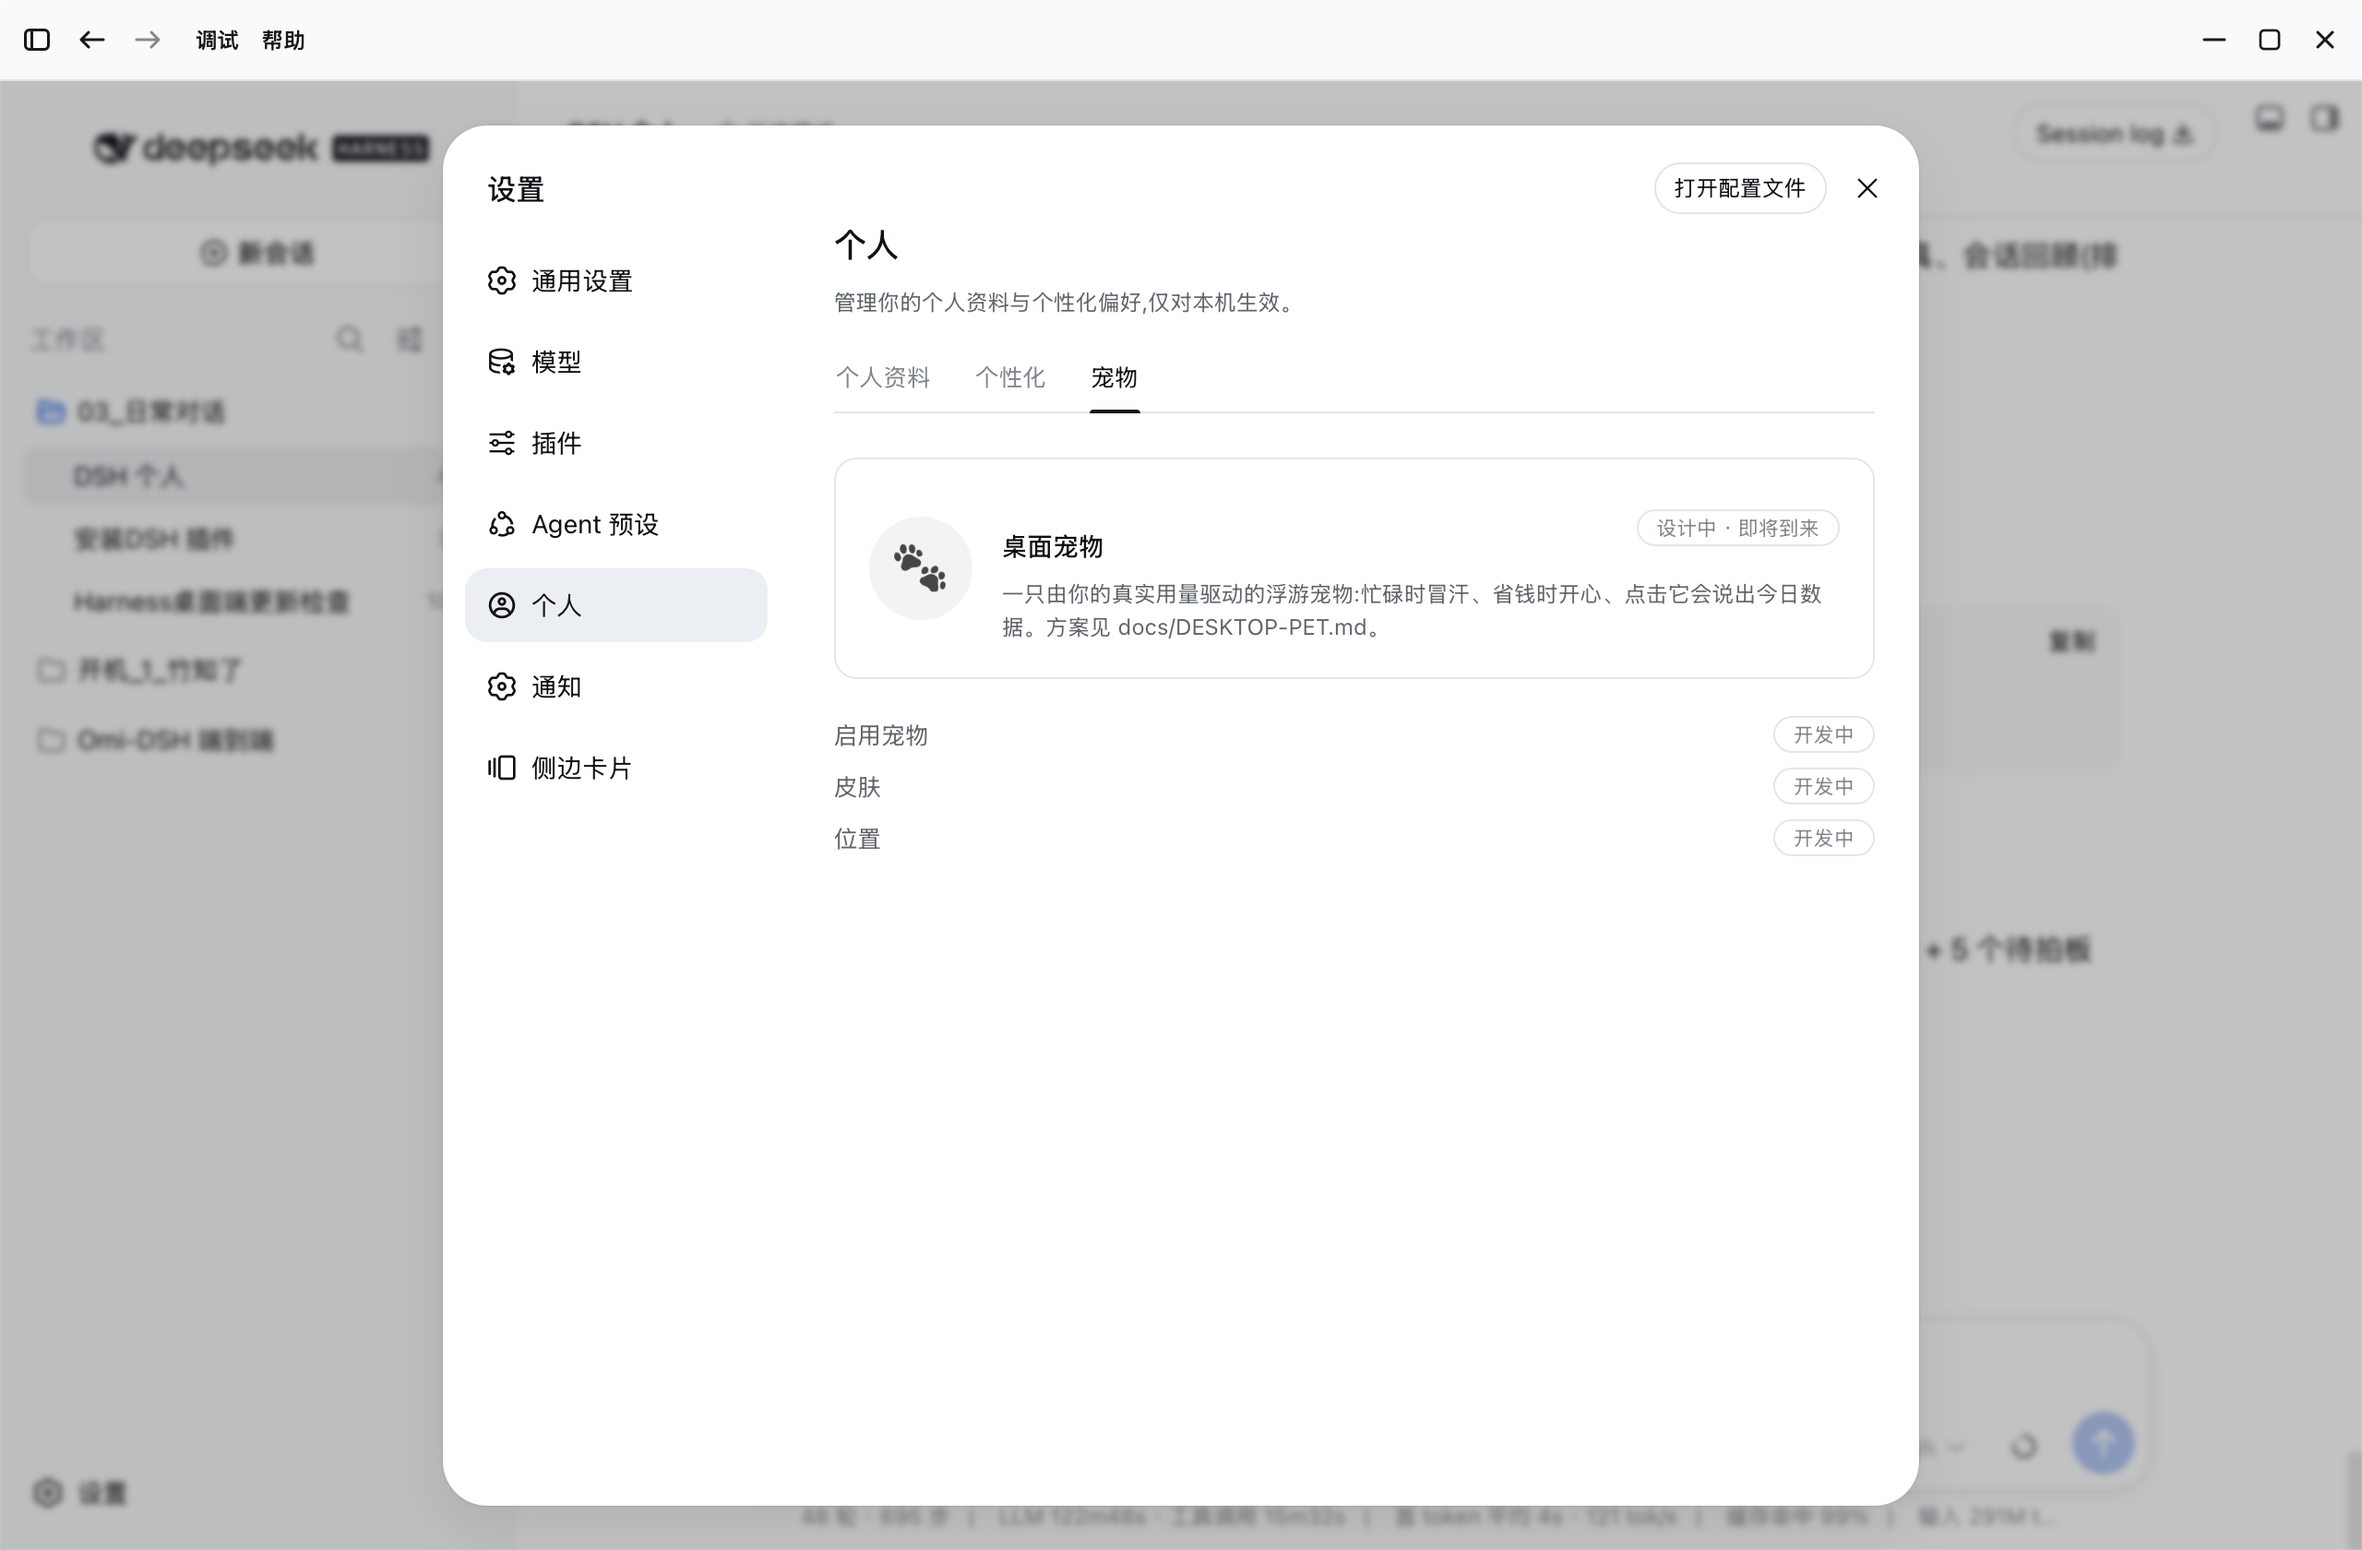
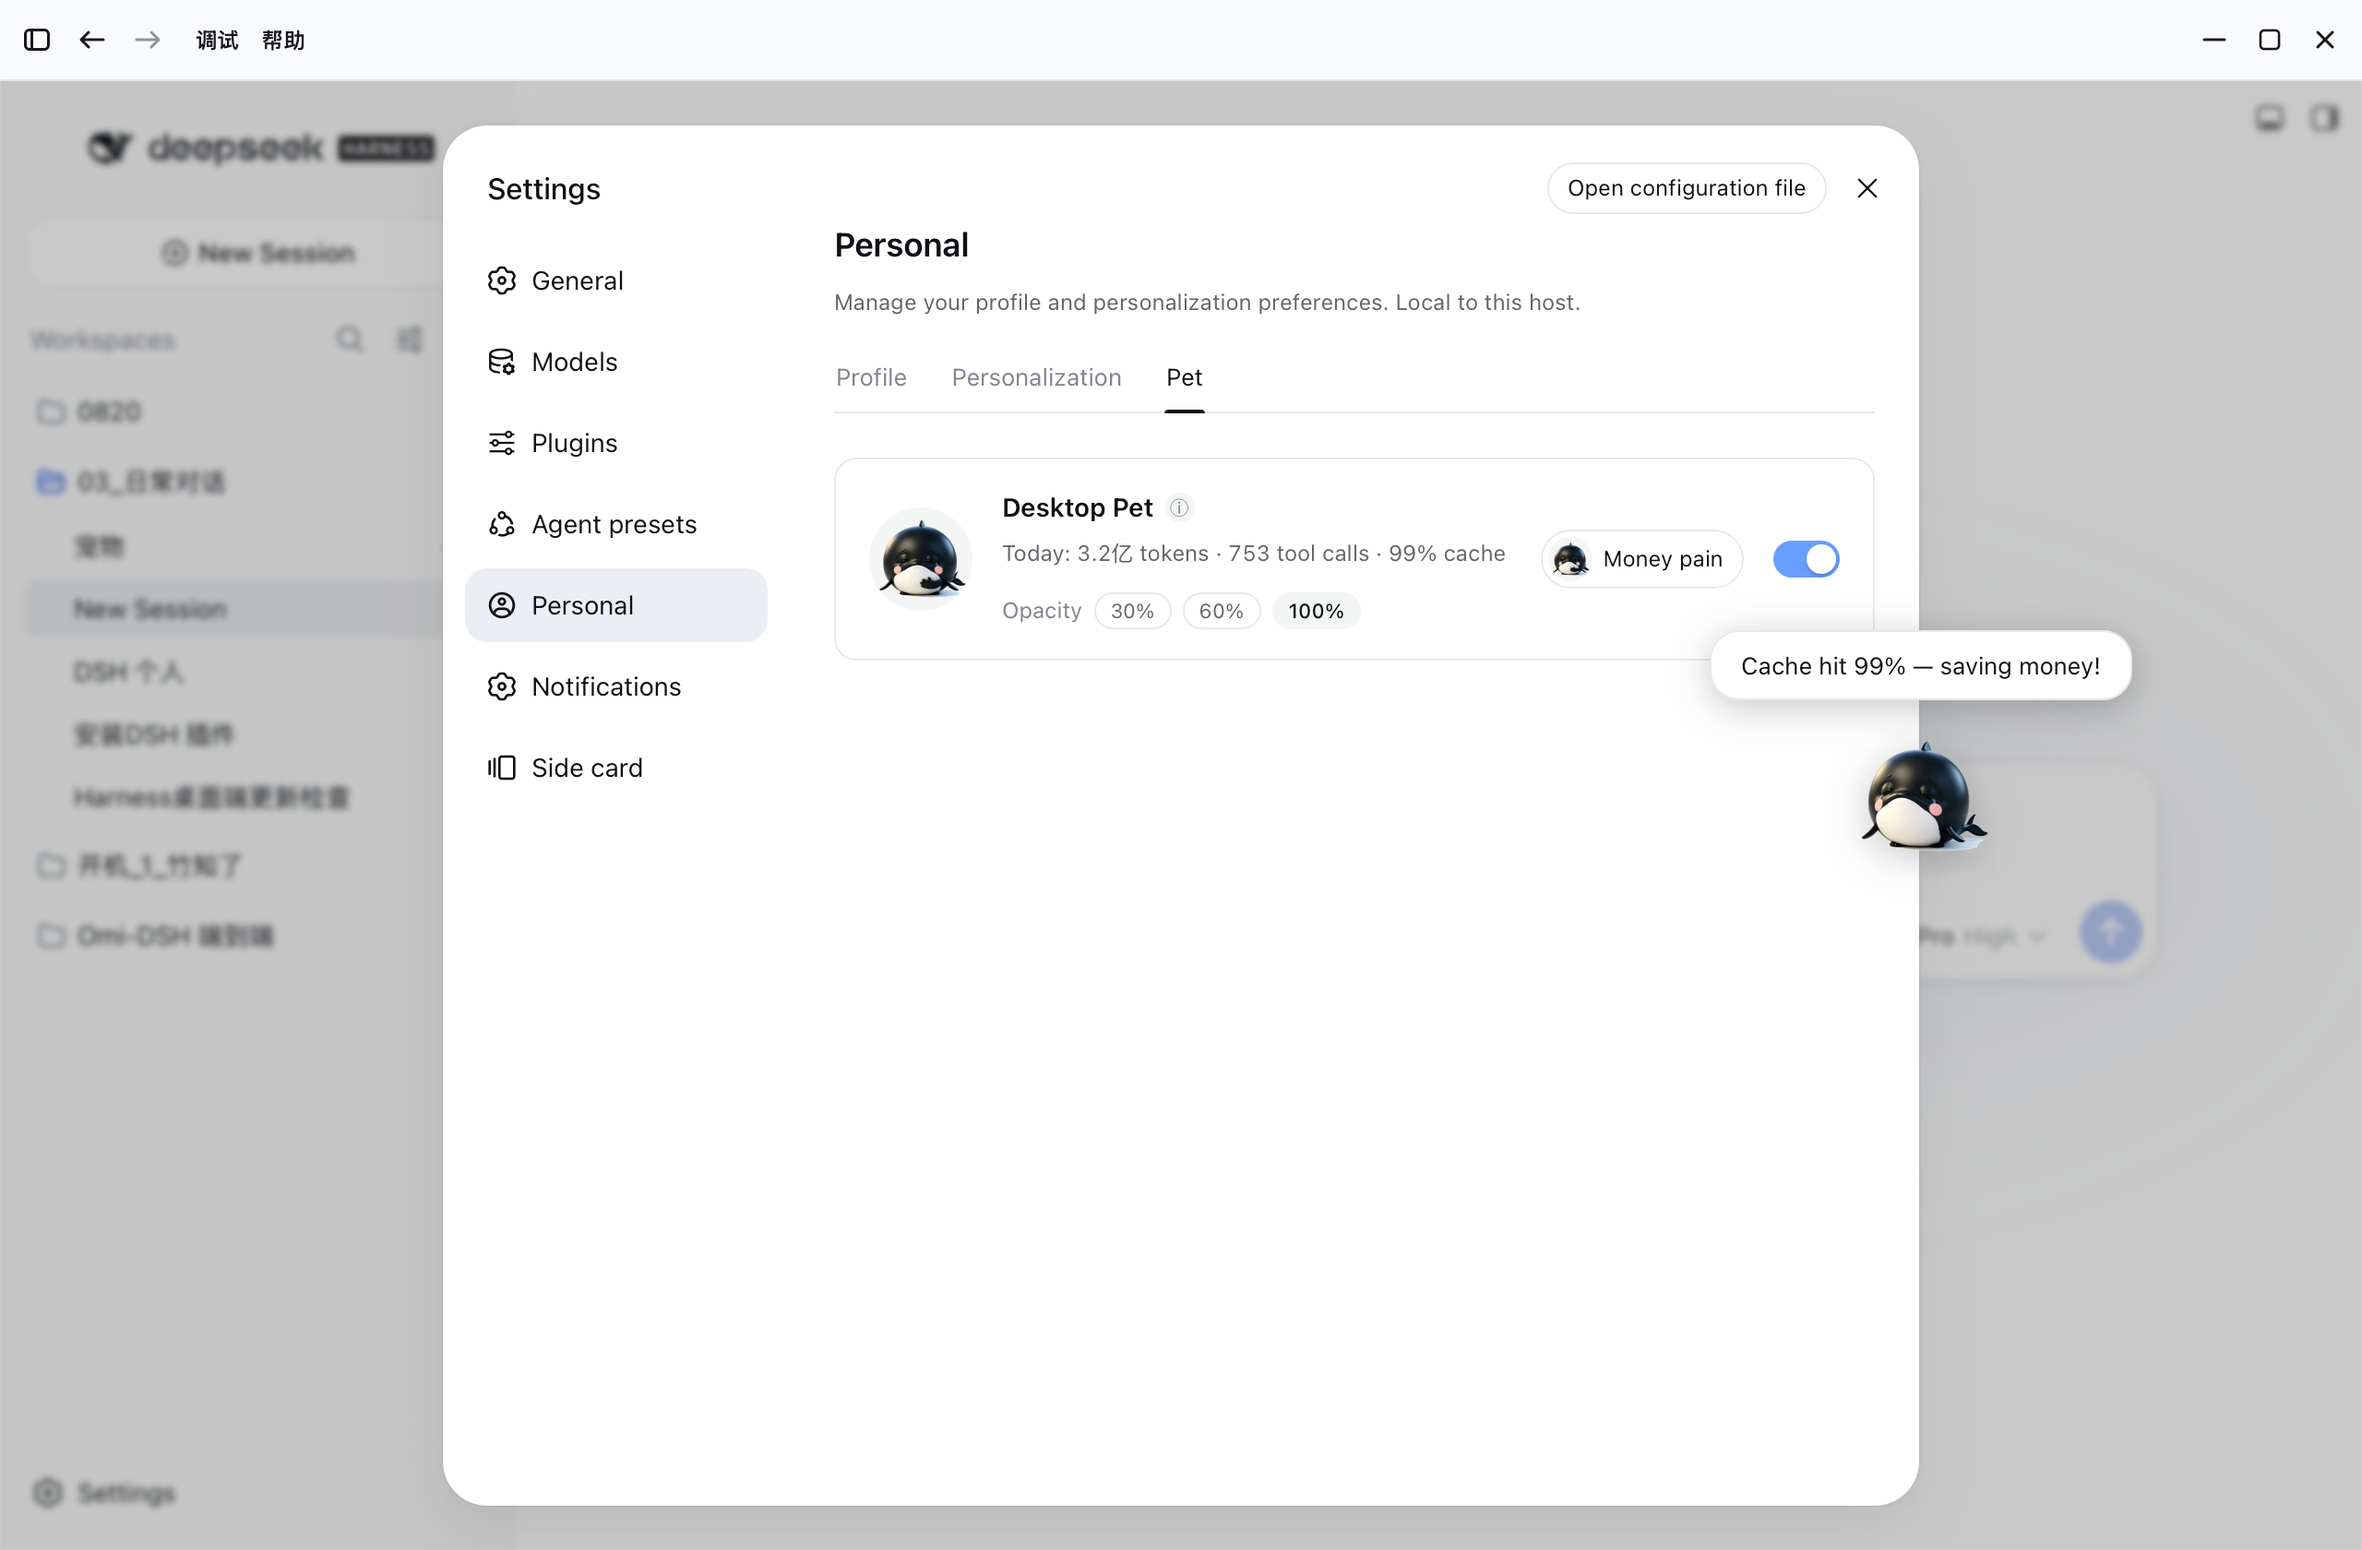
docs: 补宠物浅色/深色截图与五种情绪合集 GIF,更新 README/PROMOTION 截图清单
- docs/screenshots/light-pet.png(覆盖旧占位图)、dark-pet.png、pet-emotions.gif(新增)
- README 截图段:宠物面板浅色/深色 + 情绪合集 GIF 全宽展示
- PROMOTION 截图清单:与仓库实际文件对齐(移除不存在的个性化截图引用)

diff --git a/docs/PROMOTION.md b/docs/PROMOTION.md
@@ -79,13 +79,13 @@
 | 图 | 路径 | 说明 |
 |---|---|---|
 | 浅色·个人资料 | `docs/screenshots/light-profile.png` | 统计面板(浅色) |
-| 深色·个人资料 | `docs/screenshots/dark-profile.png` | 统计面板(深色) |
-| 浅色·个性化 | `docs/screenshots/light-personalization.png` | 自定义指令(浅色) |
-| 深色·个性化 | `docs/screenshots/dark-personalization.png` | 自定义指令(深色) |
-| 浅色·宠物面板 | `docs/screenshots/light-pet.png` | 极简宠物面板(浅色,待 v0.4 更新) |
-| 深色·宠物面板 | `docs/screenshots/dark-pet.png` | 极简宠物面板(深色,待 v0.4 更新) |
+| 深色·回顾 | `docs/screenshots/dark-review.png` | 回顾(深色) |
+| 模型成本·深色 | `docs/screenshots/dark-model-cost.png` | 成本编辑器(深色) |
+| 浅色·宠物面板 | `docs/screenshots/light-pet.png` | 极简宠物面板(浅色) |
+| 深色·宠物面板 | `docs/screenshots/dark-pet.png` | 极简宠物面板(深色) |
+| 五种情绪动画 | `docs/screenshots/pet-emotions.gif` | 开心/忙碌/疲惫/钱包痛/打盹 并排 |
 
-> 配图建议:文章顶部放浅色·个人资料 + 深色·个人资料各一张;宠物功能配一张面板截图 + 一张界面右下角的小鲸鱼。
+> 配图建议:文章顶部放浅色·个人资料 + 深色·回顾各一张;宠物功能放一张面板截图 + 一张界面右下角的小鲸鱼 + 情绪动画 GIF。
 
 ## 8. 语气与风格
 

diff --git a/README.md b/README.md
@@ -17,9 +17,17 @@
 |---|---|
 | ![个人资料 · 浅色](docs/screenshots/light-profile.png) | ![回顾 · 深色](docs/screenshots/dark-review.png) |
 
-| 浅色 · 宠物 | 深色 · 模型成本 |
+| 浅色 · 宠物面板 | 深色 · 宠物面板 |
 |---|---|
-| ![宠物 · 浅色](docs/screenshots/light-pet.png) | ![模型成本 · 深色](docs/screenshots/dark-model-cost.png) |
+| ![宠物 · 浅色](docs/screenshots/light-pet.png) | ![宠物 · 深色](docs/screenshots/dark-pet.png) |
+
+**五种情绪动画**(开心 / 忙碌 / 疲惫 / 钱包痛 / 打盹):
+
+![五种情绪动画](docs/screenshots/pet-emotions.gif)
+
+| 模型成本 · 深色 |
+|---|
+| ![模型成本 · 深色](docs/screenshots/dark-model-cost.png) |
 
 ## ✨ 功能
 
